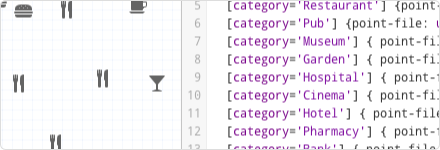
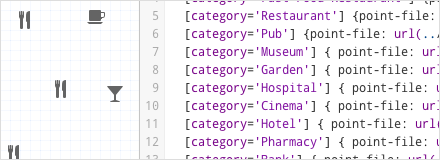
reintroduced background and added graphics.

diff --git a/index.html b/index.html
@@ -32,14 +32,14 @@ title: Maki
     </div>
   </div>
 
-  <div class='content limiter'>
+  <div class='limiter clip'><div class='content prose clearfix'>
     <div id='map'>
       <h3 class='title'>Uniquely crafted to make your TileMill maps beautiful and meaningful.</h3>
     </div>
     <div class='clearfix'>
       <div class='col-3'>
         <h3>Designed pixel-by-pixel to look great at  small sizes but scale up elegantly</h3>
-        <p>We designed Maki specifically for TileMill with goal of creating an international, comprehensive, and stylistically unified point of interest icon set. Each symbol is drawn three times at different sizes to maximize crispness and readability. Maki symbols are based on international recognized symbols, following precedents set by AIGA and Isotype but preserving a unique look at feel.</p>
+        <p>We designed Maki specifically for TileMill with goal of creating an international, comprehensive, and stylistically unified point of interest icon set. Each symbol is drawn three times at different sizes to maximize crispness and readability. Maki symbols are based on international recognized symbols, following precedents set by AIGA and other international symbol systems, but preserving a unique look at feel.</p>
         <p>Use Maki for everything from adding context to the base map of your mobile app to highlighting critical data on your disaster map.</p>
       </div>
       <div class='col-1'>
@@ -56,10 +56,12 @@ title: Maki
     <hr />
     <div class='clearfix'>
       <div class='col-2'>
+        <span class='img440x160 img1'></span>
         <h3>Maki and MapBox give you more control</h3>
         <p>Maki icons are easy to use with MapBox. Just reference the icons in TileMill with Carto to include exactly as little or as much context as you want in your map. For detailed instructions, <a href='#'>check out the documentation.</a></p>
       </div>
       <div class='col-2'>
+        <span class='img440x160 img2'></span>
         <h3>Open source and actively developed</h3>
         <p>Maki icons are licensed under BSD, which means you're free to use, modify, and share these icons. If you'd like to make requests or suggest changes, <a href='#'>create an issue on Github</a> or <a href='#'>send us an E-mail.</a></p>
         <p>View the public repository at <a href='github.com/mapbox/maki'>github.com/mapbox/maki</a></p>
@@ -83,4 +85,4 @@ title: Maki
       </div>
     </div>
   </div>
-</div>
+</div></div>

diff --git a/site.css b/site.css
@@ -1,8 +1,3 @@
-/* Knock out the landscape image in the bottom footer. */
-.wrapper {
-  background: transparent;
-  }
-
 /* --------------------------------------
   Little Helpers
 ----------------------------------------- */
@@ -126,3 +121,13 @@
   width: 280px;
   height: 210px;
   }
+
+.img440x160 {
+  display:block;
+  width:440px;
+  height:160px;
+  margin-bottom:20px;
+  }
+  
+.img1 { background: url(images/maki-illustration-1.png) no-repeat; }
+.img2 { background: url(images/maki-illustration-2.png) no-repeat; }
